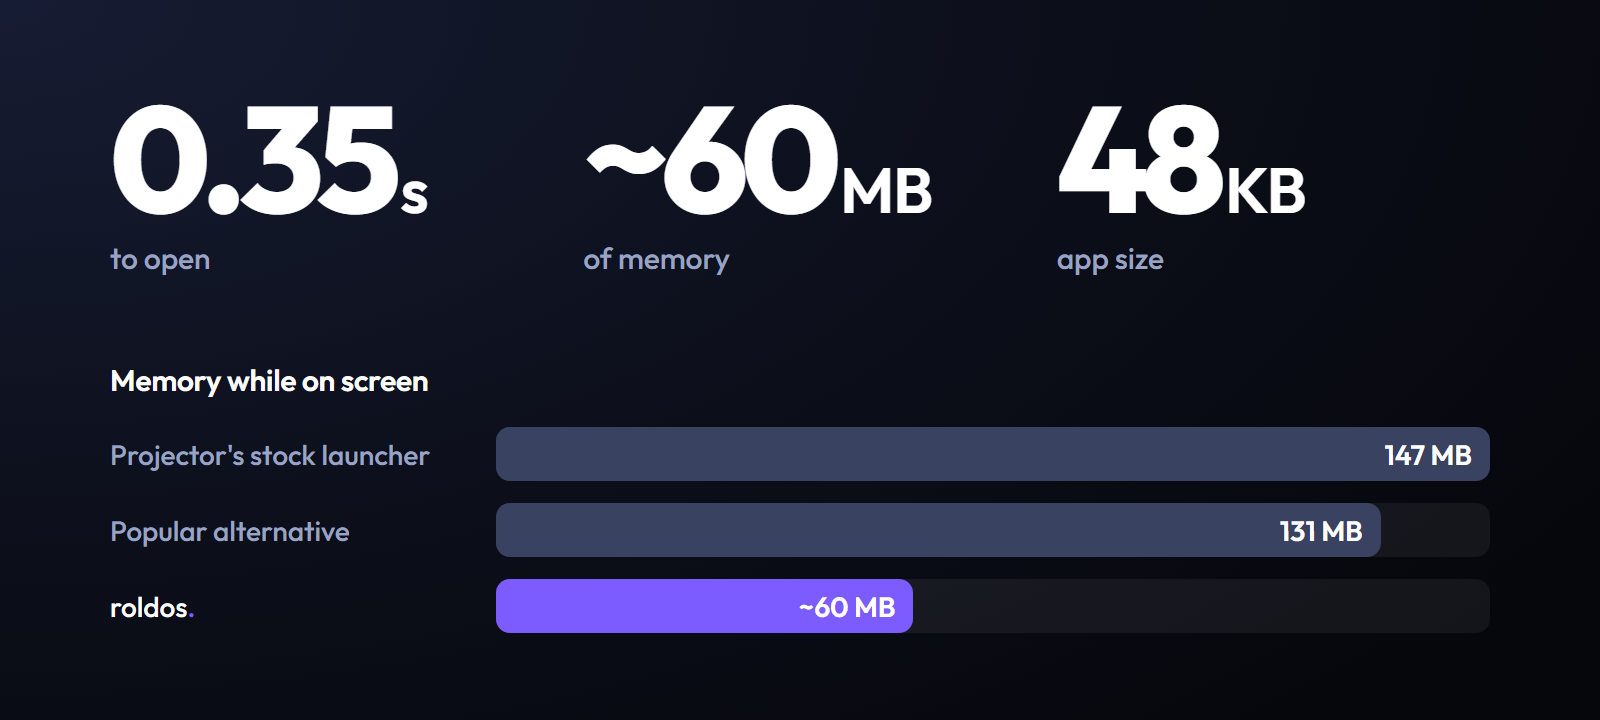
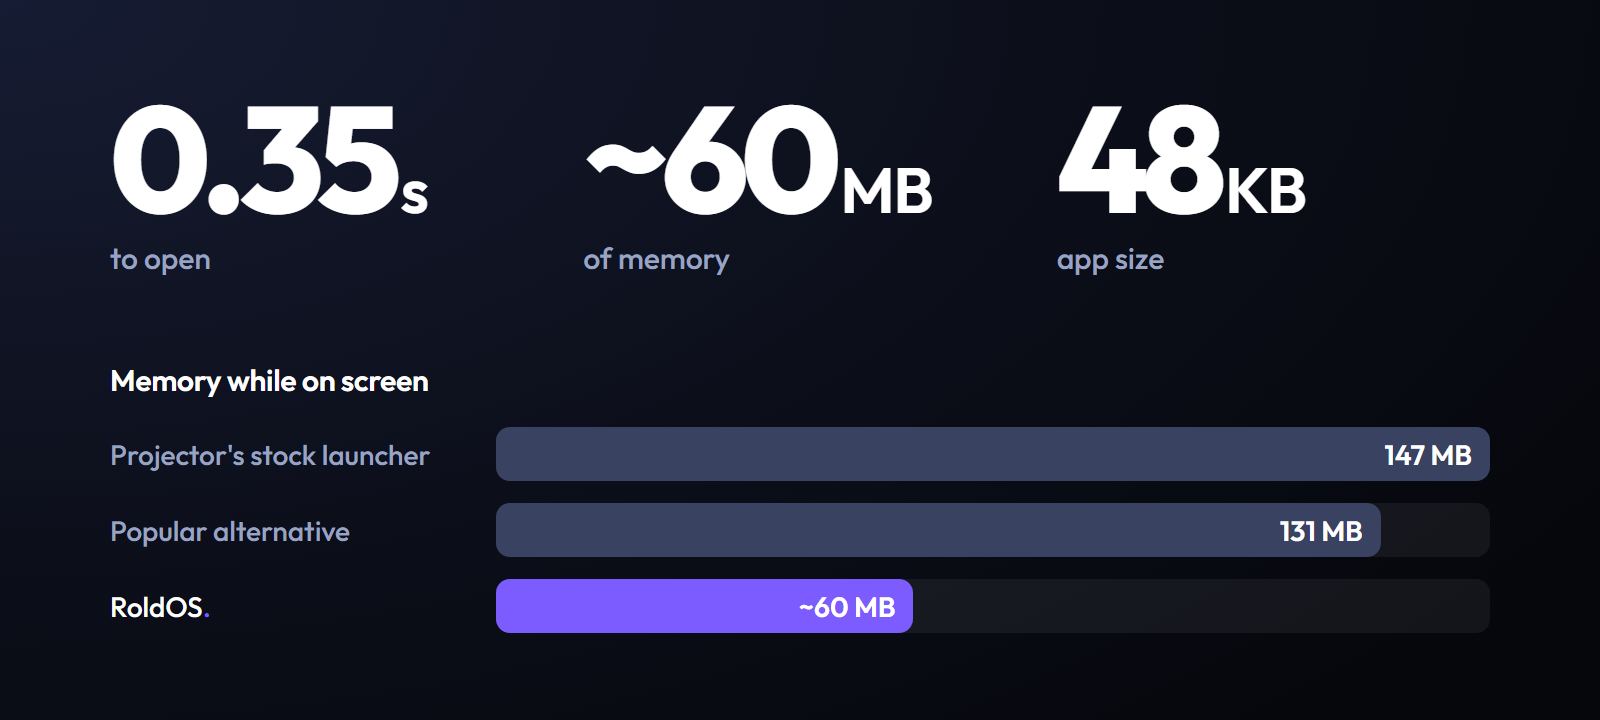
Brand: always RoldOS (capital R, O, S) in the wordmark and docs
Claude-Session: https://claude.ai/code/session_01Lj4wVPVGi7bqhehWZvuH4R

diff --git a/docs/promo/stats.html b/docs/promo/stats.html
@@ -32,6 +32,6 @@
     <h3>Memory while on screen</h3>
     <div class="bar"><div class="who">Projector's stock launcher</div><div class="track"><div class="fill" style="width:100%">147 MB</div></div></div>
     <div class="bar"><div class="who">Popular alternative</div><div class="track"><div class="fill" style="width:89%">131 MB</div></div></div>
-    <div class="bar"><div class="who me">roldos<i style="font-style:normal;color:var(--dot)">.</i></div><div class="track"><div class="fill me" style="width:42%">~60 MB</div></div></div>
+    <div class="bar"><div class="who me">RoldOS<i style="font-style:normal;color:var(--dot)">.</i></div><div class="track"><div class="fill me" style="width:42%">~60 MB</div></div></div>
   </div>
 </body></html>

diff --git a/docs/promo/hero.html b/docs/promo/hero.html
@@ -14,7 +14,7 @@
 </style></head>
 <body>
   <div class="copy">
-    <div class="wm">roldos<i>.</i></div>
+    <div class="wm">RoldOS<i>.</i></div>
     <div class="tag">Your TV, <b>light</b> and <b>fast</b>.</div>
     <div class="sub">A tiny home screen for Android TV.</div>
   </div>

diff --git a/JOURNAL.md b/JOURNAL.md
@@ -149,8 +149,8 @@ check what launches it** (e.g. trigger the stock UI and watch
 - **Fix:** Wi-Fi and Wired Cast icons looked off on the projector (cramped arcs;
   a cable that crossed everything). Redrawn: evenly spaced arcs, and a clean U-shaped
   cable between a separate phone and screen.
-- **Decision (Federico):** logo in the language of his bus app **Tandem**: lowercase
-  "roldos." in Outfit with a colored period. Dot color candidates W1–W4 sent as an
+- **Decision (Federico):** logo in the language of his bus app **Tandem**: Outfit
+  "RoldOS." (his exact capitalization) in Outfit with a colored period. Dot color candidates W1–W4 sent as an
   artifact; README images use W1 (violet) until he picks.
 - **Decision (Federico):** README is promotional: three rendered images
   (`docs/promo/*.html` → `docs/images/*.png` via `render.ps1`), big type, no

diff --git a/README.md b/README.md
@@ -1,5 +1,5 @@
 <p align="center">
-  <img src="docs/images/hero.png" alt="roldos. Your TV, light and fast. A tiny home screen for Android TV." width="100%">
+  <img src="docs/images/hero.png" alt="RoldOS. Your TV, light and fast. A tiny home screen for Android TV." width="100%">
 </p>
 
 <h2 align="center">A home screen that gets out of the way.</h2>
@@ -10,7 +10,7 @@
 </p>
 
 <p align="center">
-  <img src="docs/images/stats.png" alt="0.35 s to open, about 60 MB of memory, 48 KB app. Memory on screen: stock launcher 147 MB, popular alternative 131 MB, roldos about 60 MB." width="100%">
+  <img src="docs/images/stats.png" alt="0.35 s to open, about 60 MB of memory, 48 KB app. Memory on screen: stock launcher 147 MB, popular alternative 131 MB, RoldOS about 60 MB." width="100%">
 </p>
 
 <p align="center">

diff --git a/CLAUDE.md b/CLAUDE.md
@@ -118,7 +118,8 @@ until it's closed).
   HDMI, WIRELESS_CAST, WIRED_CAST, ORIGINAL_HOME (icon family "A": white line icons,
   one gradient each). Keep new system tiles in this same family so the brand stays
   consistent.
-- Branding: wordmark "roldos." in Outfit, lowercase, colored period, same recipe
+- Branding: the name is always **RoldOS** (capital R, O, S; never "roldos" or "Roldos").
+  Wordmark "RoldOS." in Outfit with a colored period, same recipe
   as Federico's app Tandem ("tandem."). Promo images live in `docs/promo/` (HTML
   sources) and are rendered to `docs/images/` with headless Edge.
 - `HomeKeyService` (accessibility): Home key + stock-home bounce + Calibration click.
